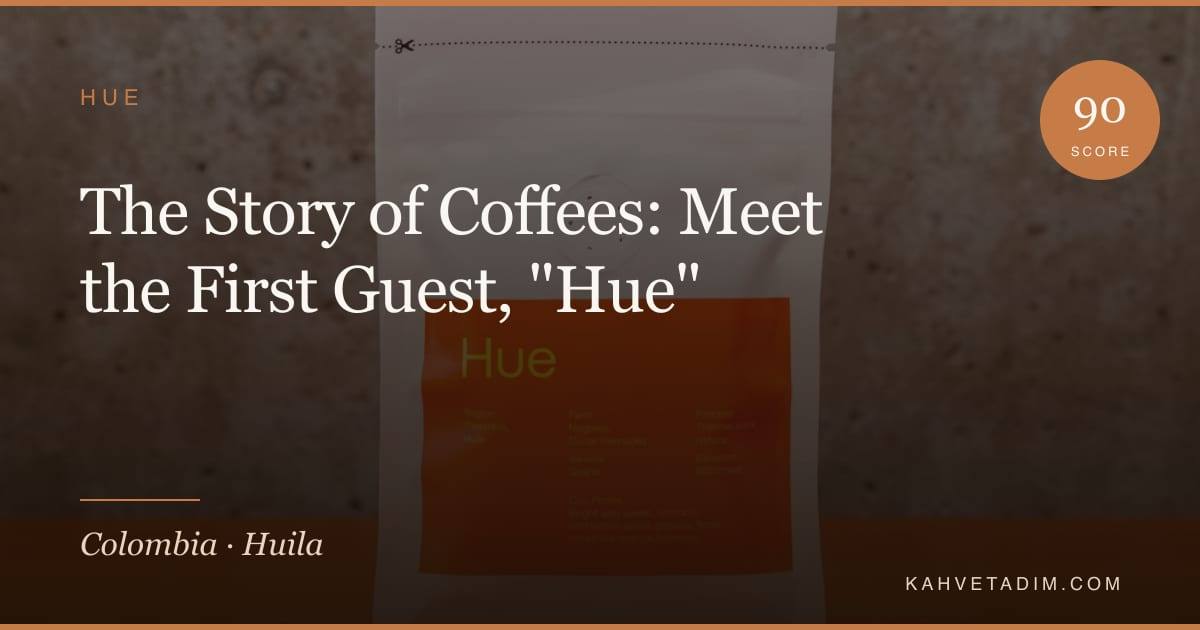
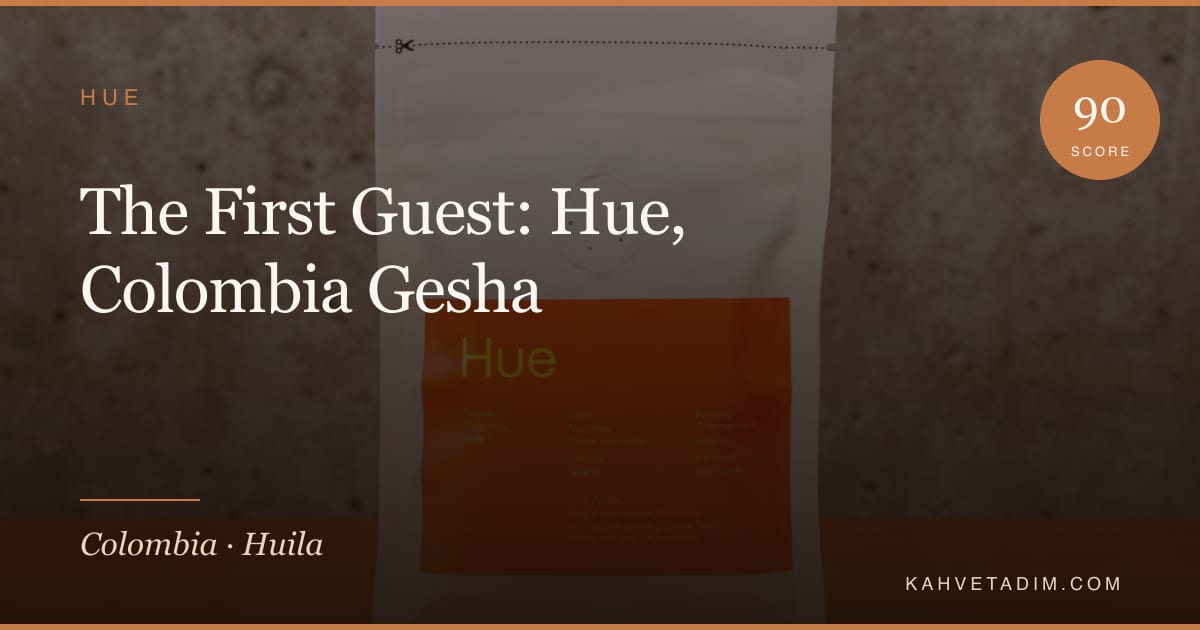
Ana sayfa kapak düzeni + İngilizce metin turu
- Açılış bloğu kaldırıldı: sayfa doğrudan son tadımın kapağıyla açılıyor,
  bölüm etiketi ikincil kartların üstüne indi. home.kicker/bark/intro silindi.
- İngilizce tadımlarda ses birliği: Türkçeden geçen 'biz' dili birinci
  tekile çevrildi; ara başlıklar tek kalıba oturdu (Brew Recipe & Equipment,
  On the Nose (Aroma), On the Palate, Final Word).
- Hue ve Belayco özetleri yeniden yazıldı, Hue başlığı sadeleşti.
- Hakkında (EN) birinci tekile çevrildi.

Changed region(s): [[0.1542, 0.2714, 0.6783, 0.3921], [0.0617, 0.4222, 0.5858, 0.5127]]

diff --git a/src/i18n/ui.ts b/src/i18n/ui.ts
@@ -27,8 +27,6 @@ export const dateLocale: Record<Lang, string> = {
 export const ui = {
   tr: {
     'site.author': 'Sabri',
-    'site.brandLead': 'cuppin',
-    'site.brandAccent': 'dog',
     'site.name': 'Cuppindog',
     'site.title': 'Cuppindog — Kişisel kahve tadım defteri',
     'site.description':
@@ -37,13 +35,8 @@ export const ui = {
     'nav.archive': 'Arşiv',
     'nav.about': 'Hakkında',
 
-    'home.kicker': 'Kişisel kahve defteri',
     // Açılış: Çakıl konuşuyor. Puanları veren Sabri ama son sözü köpek söylüyor.
-    'home.bark': 'Sabri demler, ben onaylarım.',
-    'home.barkNote': 'Çakıl, baş tadımcı',
-    'home.intro':
-      'Menşeinden prosesine, demleme oranından damakta bıraktığı ize — tattığım kahveleri burada tek tek yazıyorum.',
-    'home.latest': 'Son Tadımlar',
+    'home.latest': 'Önceki Tadımlar',
     'home.empty': 'Henüz yazılmış tadım yok.',
     'home.all': 'Tüm tadımlar →',
 
@@ -99,8 +92,6 @@ export const ui = {
   },
   en: {
     'site.author': 'Sabri',
-    'site.brandLead': 'Coffee',
-    'site.brandAccent': 'Tastings',
     'site.name': 'Cuppindog',
     'site.title': 'Cuppindog — A personal coffee tasting journal',
     'site.description':
@@ -109,12 +100,7 @@ export const ui = {
     'nav.archive': 'Archive',
     'nav.about': 'About',
 
-    'home.kicker': 'My personal coffee journal',
-    'home.bark': 'Sabri brews. I approve.',
-    'home.barkNote': 'Çakıl, head taster',
-    'home.intro':
-      'From origin and process to brew ratio and the trace it leaves on the palate — I write up every coffee I taste, right here.',
-    'home.latest': 'Latest Tastings',
+    'home.latest': 'Earlier Tastings',
     'home.empty': 'No tastings written yet.',
     'home.all': 'All tastings →',
 
@@ -150,7 +136,7 @@ export const ui = {
     'data.roasted': 'Roasted',
     'data.altitude': 'Altitude',
     'data.roastLevel': 'Roast',
-    'data.roastMachine': 'Roaster Machine',
+    'data.roastMachine': 'Roasting Machine',
     'data.waterTemp': 'Water Temp',
     'data.bloom': 'Bloom',
     'data.pour': 'Pour',

diff --git a/src/content/tadimlar/en/hue-colombia-oscar-hernandez.md b/src/content/tadimlar/en/hue-colombia-oscar-hernandez.md
@@ -1,9 +1,11 @@
 ---
-title: 'The Story of Coffees: Meet the First Guest, "Hue"'
+title: 'The First Guest: Hue, Colombia Gesha'
 date: 2026-04-24
 coverImage: ../hue-colombia-oscar-hernandez/coverImage.png
 summary: >-
-  When I heard a dear friend of mine was heading to Thessaloniki, I figured it was the perfect chance to finally try the Hue selection that had been on my radar for a while.
+  The first entry in this journal: a natural Gesha from Huila, roasted by Hue and
+  carried back from Thessaloniki by a friend. A whole flower garden on the nose,
+  citrus and a long, sweet finish on the palate.
 coffee:
   roaster: Hue
   origin: Colombia
@@ -33,9 +35,9 @@ rating:
     - Floral
     - Lemon zest
 ---
-To kick off this journey, which we began by telling the stories behind coffees, I'd love to introduce you to our very first guest. When I heard a dear friend of mine was heading to Thessaloniki, I figured it was the perfect chance to finally try the **Hue** selection that had been on my radar for a while. After a short wait, the coffee finally made it into my hands and took its place on the counter.
+To open this journal, which starts with the stories behind the coffees, let me introduce the very first guest. When I heard a dear friend of mine was heading to Thessaloniki, I figured it was the perfect chance to finally try the **Hue** selection that had been on my radar for a while. After a short wait, the coffee finally made it into my hands and took its place on the counter.
 
-## Brew Recipe & Process
+## Brew Recipe & Equipment
 
 Staying true to the roaster's recommendation, I went with the **Orea V4 (Classic Base)** and a **Kalita** filter. Even though only 10 days had passed since the roast date, I could tell the degassing had progressed remarkably well.
 
@@ -46,12 +48,12 @@ Staying true to the roaster's recommendation, I went with the **Orea V4 (Classic
 
 ### On the Nose (Aroma)
 
-In the dry fragrance, those characteristic fermented notes brought on by the thermal shock process were front and center. But the moment the coffee met the water, that fermented quality vanished completely and gave way to what felt like an entire flower garden. While the roaster's product description highlights "orange blossom," to me this is a far richer, multi-layered floral bouquet that simply can't be pinned down to a single flower. With the sheer joy of not having brewed a coffee this captivating in a long time, I dive straight into the tasting.
+In the dry fragrance, those characteristic fermented notes brought on by the thermal shock process were front and center. But the moment the coffee met the water, that fermented quality vanished completely and gave way to what felt like an entire flower garden. While the roaster's product description highlights "orange blossom," to me this is a far richer, multi-layered floral bouquet that simply can't be pinned down to a single flower. It has been a long time since I brewed anything this captivating, so I go straight into the tasting.
 
-### On the Palate (Flavor Profile)
+### On the Palate
 
-From the very first sip, that signature **Gesha elegance** announces itself. A lively, bright acidity greets you on the palate; but this is by no means a tiring or off-putting acidity. The coffee holds onto its sweetness from start to finish, and this is certainly no ordinary sweetness, but rather a structure full of character. The journey across the palate continues with citrus flavors dancing in harmony with those floral notes from the nose. And in the finish, with its body and long-lasting persistence, it proves in every sense just how high-quality a cup it is.
+From the very first sip, that signature **Gesha elegance** announces itself. A lively, bright acidity greets the palate, and never a tiring or off-putting one. The sweetness holds from first sip to last, and it is no ordinary sweetness but a structure with real character. The journey across the palate continues with citrus flavors dancing in harmony with those floral notes from the nose. And the finish, with its body and length, leaves no doubt about the quality of the cup.
 
 ### Final Word
 
-We close out the first piece in our series with a layered, complex coffee whose processing has been handled with real skill. This bean is absolutely not one of those monotonous, "boring" Geshas. It offers a textbook profile that you could point to directly as a reference for any coffee lover wondering, *"Why is the Gesha variety so prized?"*
+The first entry closes with a layered, complex coffee whose processing has been handled with real skill. This bean is absolutely not one of those monotonous, "boring" Geshas. It offers a textbook profile that you could point to directly as a reference for any coffee lover wondering, *"Why is the Gesha variety so prized?"*

diff --git a/src/content/tadimlar/en/yaratici-oyun-alanindan-mazelab-in-etiyopya-muntasha-si.md b/src/content/tadimlar/en/yaratici-oyun-alanindan-mazelab-in-etiyopya-muntasha-si.md
@@ -41,28 +41,28 @@ rating:
     - Citrus
     - Tropical
 ---
-On this page we're stopping by Prague once more. This time the name behind the cup is Mazelab — a team that has made a name for itself on the city's coffee scene both behind the counter and at the competition table. The story of founders Jackie and Thu actually begins in a coffee shop too; the two meet there, and then go on to build both their life and their work together.
+This page stops by Prague once more. This time the name behind the cup is Mazelab — a team that has made a name for itself on the city's coffee scene both behind the counter and at the competition table. The story of founders Jackie and Thu actually begins in a coffee shop too; the two meet there, and then go on to build both their life and their work together.
 
 Jackie's background is in design and photography. The idea for Mazelab was born on a trip to Iceland: to combine a coffee shop with a photo gallery. Although their first café made its name with latte art, Jackie realized the work doesn't end with aesthetics — that the real depth lies in taste, aroma and that whole sensory journey. That's why they describe Mazelab as a kind of "creative playground" — a place that seats coffee at the same table as art.
 
 They got into roasting in May 2023, after clocking six years in the industry. Their intention isn't to chase what's rare or expensive; in their own words, it's to hunt down beans that "offer hidden, distinctive flavors of their own." That approach sits well with this page, which cares about transparency and terroir. A little note for those wondering how serious the work is: the 2024 Czech Brewers Cup title was Jackie's, and the 2025 World Brewers championship was won with Mazelab's SOLO Dripper. So there's quite a body of experience behind the cup.
 
-I'd never come across a roaster who includes a detail like the roasting machine before; a very thoughtful touch. Since the roaster doesn't provide a specific recipe, I work at it, and add the recipe we liked best to our site.
+I'd never come across a roaster who includes a detail like the roasting machine before; a very thoughtful touch. Since the roaster doesn't publish a recipe, I worked at it myself and wrote up the one I liked best.
 
 ## Brew Recipe & Equipment
 
-For this natural Ethiopia that doesn't like high heat, my favorite was to stay at 92 degrees; when I raised the temperature, bitter notes pushed the coffee away from me. A salute to the classic water-holding Ethiopian naturals — this coffee of ours is one of them too.
+For this natural Ethiopia that doesn't like high heat, my favorite was to stay at 92 degrees; when I raised the temperature, bitter notes pushed the coffee away from me. A salute to the classic water-holding Ethiopian naturals — this one is right there with them.
 
-From our coffee shelf I'm picking our trusty old Origami Air S dripper. My filter paper choice is th3, as abaca plus turned out too slow and abaca too fast.
+From the shelf I pick my trusty old Origami Air S dripper. My filter paper choice is th3, as abaca plus turned out too slow and abaca too fast.
 
 ### On the Nose (Aroma)
 
-The coffee has a very colorful, very enjoyable nose — we can't get enough of smelling it. Tropical aromas draw us in toward the coffee.
+The coffee has a colorful, thoroughly enjoyable nose — I can't stop smelling it. Tropical aromas pull me into the cup.
 
 ### On the Palate
 
-A coffee you almost chew on, this Muntasha; warm, it brings to mind the astringency of orange. Within 2-3 minutes, red fruits, yellow plum and citrus — a complex coffee in every sip. It's anything but monotonous; with every tasting there are different layers, and the transitions captivate us. A sweetish, flavorful coffee with medium–medium-low acidity.
+Muntasha is a coffee you almost chew on; warm, it brings to mind the astringency of orange peel. Within 2-3 minutes, red fruits, yellow plum and citrus — a complex coffee in every sip. It's anything but monotonous; with every tasting there are different layers, and the transitions are captivating. A sweetish, flavorful coffee with medium–medium-low acidity.
 
 ### Final Word
 
-Mazelab has been the roaster that's impressed me most lately; I hope one day I'll get the chance to experience it in person. I'm certain their other coffees will find a place on our site. May your cup be shared with your loved ones, and may your sips always be a pleasure.
+Mazelab has been the roaster that's impressed me most lately; I hope one day I'll get the chance to experience it in person. I'm certain their other coffees will find a place here. May your cup be shared with your loved ones, and may your sips always be a pleasure.

diff --git a/src/content/tadimlar/en/hafta-sonunun-nesesi-muenih-ten-belayco.md b/src/content/tadimlar/en/hafta-sonunun-nesesi-muenih-ten-belayco.md
@@ -3,7 +3,9 @@ title: 'Weekend Cheer: Belayco from Munich'
 date: 2026-04-26
 coverImage: ../hafta-sonunun-nesesi-muenih-ten-belayco/coverImage.png
 summary: >-
-  Some coffees just have a character — a single note that follows along like an underlay beneath the whole cup. Belayco is exactly that kind of coffee.
+  Some coffees carry a single note underneath the whole cup like an underlay.
+  Belayco is one of them: bubblegum below, yellow plum and peach sweetness above,
+  and months in the freezer did nothing to dull it.
 coffee:
   roaster: Café Blá
   origin: Ethiopia
@@ -34,9 +36,9 @@ rating:
     - Peach
     - Complex
 ---
-The coffee bringing some cheer to our weekend comes all the way from Munich, Germany. I picked up beans from Cafe Bla, who roast in the Nordic style, back in June 2025, and this one impressed me so much that I tucked it straight into the freezer. Months later, it's finally time for a reunion!
+The coffee brightening my weekend comes all the way from Munich, Germany. I picked up beans from Cafe Bla, who roast in the Nordic style, back in June 2025, and this one impressed me so much that I tucked it straight into the freezer. Months later, it's finally time for a reunion!
 
-## Brew Recipe & Process
+## Brew Recipe & Equipment
 
 I looked back at my notes to map out my brewing strategy. This is a bean I've brewed every which way before — Turkish coffee included — and it has made me happy every single time. Since I remembered it tends to hold onto water, I swapped the base of my **Orea V4** for the "Open" version to keep the flow moving.
 
@@ -44,11 +46,11 @@ I looked back at my notes to map out my brewing strategy. This is a bean I've br
 
 The time in the freezer didn't hurt the dry fragrance in any way. If anything, it's still as lively and powerful as day one.
 
-### On the Palate (Flavor Profile)
+### On the Palate
 
-Some coffees just have a character — a single note that follows along like an underlay beneath the whole cup. Belayco is exactly that kind of coffee. That signature underlying note reminds me of Bubblegum. And right behind it, a wonderful yellow plum and peach sweetness greets you.
+Some coffees just have a character — a single note that follows along like an underlay beneath the whole cup. Belayco is exactly that kind of coffee. That underlying note reminds me of bubblegum. And right behind it, a wonderful yellow plum and peach sweetness greets you.
 
-A genuinely complex and sweet cup. Its high body, paired with that complex structure on both the nose and the palate, makes this coffee more than worthy of a spot in our corner. And as it cools, that complexity opens up even more. My only criticism is that the acidity stays muted and low; a mid-level acidity could have made this profile flawless. The coffee lingers on the palate for a very long time and brightens up our day.
+A genuinely complex and sweet cup. Its high body, paired with that complex structure on both the nose and the palate, makes this coffee more than worthy of a spot here. And as it cools, that complexity opens up even more. My only criticism is that the acidity stays muted and low; a mid-level acidity could have made this profile flawless. The coffee lingers on the palate for a very long time and brightens up the day.
 
 ### A Small Note
 

diff --git a/src/content/tadimlar/en/esprili-paketler-cekya-dan-etiyopya-sasaba.md b/src/content/tadimlar/en/esprili-paketler-cekya-dan-etiyopya-sasaba.md
@@ -44,18 +44,18 @@ They live up to the claim in their name, too: instead of letting coffee settle i
 
 ## Brew Recipe & Equipment
 
-This isn't one of those coffees that gives you a great result every single brew — it took some effort, but it was worth it.
+This isn't a coffee that rewards you on every brew — it took some work, but it was worth it.
 
-Since it turned out to be a far lighter-roasted washed Ethiopia than I expected, we dialed the grind finer and bumped up the temperature. For my Orea V4 dripper, which I normally run with the open base, we switched to our classic base instead.
+Since it turned out to be a far lighter-roasted washed Ethiopia than I expected, I dialed the grind finer and bumped up the temperature. For my Orea V4 dripper, which I normally run with the open base, I switched to the classic base instead.
 
 ### On the Nose (Aroma)
 
-On the nose there's a fruity scent reminiscent of peach iced tea. The lemongrass and jasmine underneath are what make this coffee worth writing up on our site. Hot or cold, it doesn't matter — the aroma carries on in this same vein.
+On the nose there's a fruity scent reminiscent of peach iced tea. The lemongrass and jasmine underneath are what make this coffee worth writing up here. Hot or cold, it doesn't matter — the aroma carries on in this same vein.
 
 ### On the Palate
 
-On the palate the coffee has a mouthwatering structure. Because it's a tough one to coax open, the astringency in those first brews gets resolved with the higher temperature and finer grind. As the tannins fade, the coffee's cheerfulness comes back into place, and our adjustments don't push it toward bitterness. The one thing I don't love about this coffee is that the acidity is a bit lackluster. Our body holds up well, which is why we still get enjoyable results even when we brew it at 12/200. Sasaba isn't an especially complex or balanced coffee, but its cheerful nose is enough to win us over.
+On the palate the coffee has a mouthwatering structure. Because it's a tough one to coax open, the astringency in those first brews gets resolved with the higher temperature and finer grind. As the tannins fade, the coffee's cheerfulness comes back into place, and the adjustments don't push it toward bitterness. The one thing I don't love about this coffee is that the acidity is a bit lackluster. The body holds up well, which is why it still gives enjoyable results even at 12/200. Sasaba isn't an especially complex or balanced coffee, but its cheerful nose is enough to win me over.
 
 ### Final Word
 
-NABR will stick in our memory as a quality roaster who does light roasts well, and we hope our future orders land us on coffees of theirs worth writing about.
+NABR will stay in my mind as a roaster who does light roasts well, and I hope my future orders land on more of their coffees worth writing about.

diff --git a/src/content/tadimlar/en/fincandaki-kirmizi-peru-dan-wilder-perez-gesha-milestones-coffee.md b/src/content/tadimlar/en/fincandaki-kirmizi-peru-dan-wilder-perez-gesha-milestones-coffee.md
@@ -5,7 +5,7 @@ coverImage: ../fincandaki-kirmizi-peru-dan-wilder-perez-gesha-milestones-coffee/
 summary: >-
   A bright acidity that lingers on the palate and sweet grape molasses (pekmez)
   aromas... Roasted by Milestones, this Wilder Perez Gesha from Amazonas, Peru is
-  a multi-layered, thrilling coffee with a depth we rarely come across in Turkey.
+  a multi-layered, thrilling coffee with a depth I rarely come across in Turkey.
 coffee:
   roaster: Milestones Coffee
   origin: Peru
@@ -41,7 +41,7 @@ rating:
 ---
 ## After a Long Break: Wilder Perez Gesha from Peru
 
-After a long break, we're back with another tasting. The reason for the pause wasn't that we'd fallen out of love with coffee — it was simply that we couldn't find any beans special and exciting enough to bring to the page and write about. But once you find a coffee this good, and then brew it well on top of that, there's no way you keep it to yourself! Let's get into the brewing process.
+After a long break, I'm back with another tasting. The pause wasn't for lack of love for coffee — I simply couldn't find beans special and exciting enough to bring to the page and write about. But once you find a coffee this good, and then brew it well on top of that, there's no way you keep it to yourself! Let's get into the brewing process.
 
 ## Brew Recipe & Equipment
 
@@ -53,9 +53,9 @@ Hot, warm, or cold, this coffee fills the nose so pleasantly at every stage. The
 
 ### On the Palate
 
-The palate is wonderfully lively and mouthwatering. On the hot sip we're first met with a strong, bright acidity, while the body sits just above medium.
+The palate is wonderfully lively and mouthwatering. The first hot sip brings a strong, bright acidity, while the body sits just above medium.
 
-The cup runs almost entirely "red" from start to finish; the red apple and red mulberry flavors are very pronounced. As it cools to warm and then cold, it loses none of its charm — we're dealing with a genuinely delicious cup here. This is no ordinary, flat coffee; on the contrary, it's layered, deep, and full of surprises. Producer Wilder Perez did a marvelous job in the field and Milestones did the same on the roast, leaving us with nothing to do but savor it. We don't always find coffee at this level in Turkey.
+The cup runs almost entirely "red" from start to finish; the red apple and red mulberry flavors are very pronounced. As it cools to warm and then cold, it loses none of its charm — this is a genuinely delicious cup. This is no ordinary, flat coffee; on the contrary, it's layered, deep, and full of surprises. Producer Wilder Perez did a marvelous job in the field and Milestones did the same on the roast, leaving me with nothing to do but savor it. Coffee at this level doesn't turn up in Turkey every day.
 
 ### A Small Note
 

diff --git a/src/content/sayfalar/about/index.md b/src/content/sayfalar/about/index.md
@@ -2,8 +2,8 @@
 kicker: About
 title: The craft that fits in a cup
 ---
-We see coffee not merely as a beverage to be consumed, but as a living agricultural product. On farms at the far end of the world, on high-altitude slopes, we look for the reflection in the cup of the months of patience of people whose hands meet the soil.
+I don't see coffee as just something to drink. It is a living agricultural product, and what I look for in the cup is the reflection of long months of patience — the work of people whose hands meet the soil on high slopes at the far end of the world.
 
-At the heart of our tasting journey lies a deep respect for that hard agricultural labor and the sweat poured into coffee farms. When we search for the right water temperature, calculate grind size down to the millimeter, or choose a brewing method, we have a single aim: to reveal the land's characteristic qualities (terroir) in their most transparent form, without wasting the labor the farmer packed into that bean.
+That respect for farm labour is what this tasting journal rests on. When I hunt for the right water temperature, move the grinder a click at a time, or change brewing method halfway through a bag, the aim is always the same: to show the character of the land as transparently as the cup allows, without wasting what the farmer packed into the bean.
 
-This is exactly why we move away from flavors that have grown ordinary and chase quality coffee instead. Here, we examine beans that do justice to fermentation processes, carefully selected varieties, and proper roasting.
+It is also why I keep away from flavours that have become ordinary and go after coffees that earn their keep — beans that do justice to their fermentation, to a carefully chosen variety, and to a roast that lets both come through.

diff --git a/src/content/tadimlar/en/londra-dan-gelen-konuk-special-guests-lerida-pacamara.md b/src/content/tadimlar/en/londra-dan-gelen-konuk-special-guests-lerida-pacamara.md
@@ -53,7 +53,7 @@ Special Guests is a roaster founded in London in 2022 by Paul Ross, a two-time U
 
 Today's guest is Release 066: a Pacamara from Finca Lérida in Panama's Boquete region. Founded in 1924, Lérida played an important part in introducing Panamanian coffee to the world with its first shipment to Germany in 1929.
 
-## Brew Recipe and Equipment
+## Brew Recipe & Equipment
 
 The coffee's name scared me a little. These days I steer clear of labels like "ext", "OX" or "extended natural", but I had decided to buy this one anyway. The result in the cup is outstanding.
 
@@ -65,7 +65,7 @@ Unfortunately, the coffee is weak and closed on the nose.
 
 ### On the Palate
 
-A lively, juicy cup with medium acidity. The body is medium and very soft, and I fell for it. Its fruity character is decorated with red forest berries. It also has an oily texture, something we don't come across often, and it makes me feel I'm drinking a top-tier coffee.
+A lively, juicy cup with medium acidity. The body is medium and very soft, and I fell for it. Its fruity character is decorated with red forest berries. It also has an oily texture, something I don't come across often, and it makes me feel I'm drinking a top-tier coffee.
 
 The finish lingers on the palate like a juicier version of Anatolia's milk desserts. The bag's label lists crème brûlée, strawberry yoghurt and cashew, and the milky-dessert finish and red fruit line up with those notes.
 

diff --git a/src/content/tadimlar/en/fincanda-papatya-assembly-linarco-rodriguez-castillo.md b/src/content/tadimlar/en/fincanda-papatya-assembly-linarco-rodriguez-castillo.md
@@ -48,7 +48,7 @@ Assembly is a London roaster founded in 2015. They launched at the London Coffee
 
 This coffee comes from Assembly's Linarco Rodriguez collection. Linarco Rodriguez and his family have run three farms for three generations near the town of Palestina, in southwest Huila. Their coffees have been recognised again and again in Colombia's national Cup of Excellence competitions. The collection brings together three of his coffees, each with a different variety and process; the Castillo in my cup today is one of them.
 
-## Brew Recipe and Equipment
+## Brew Recipe & Equipment
 
 I know Assembly's coffees like heat, and their own recommendation confirms it: 98°C water for flat-bottom brewers. Since I have brewed this coffee before, I bring the temperature down to 96°C.
 
